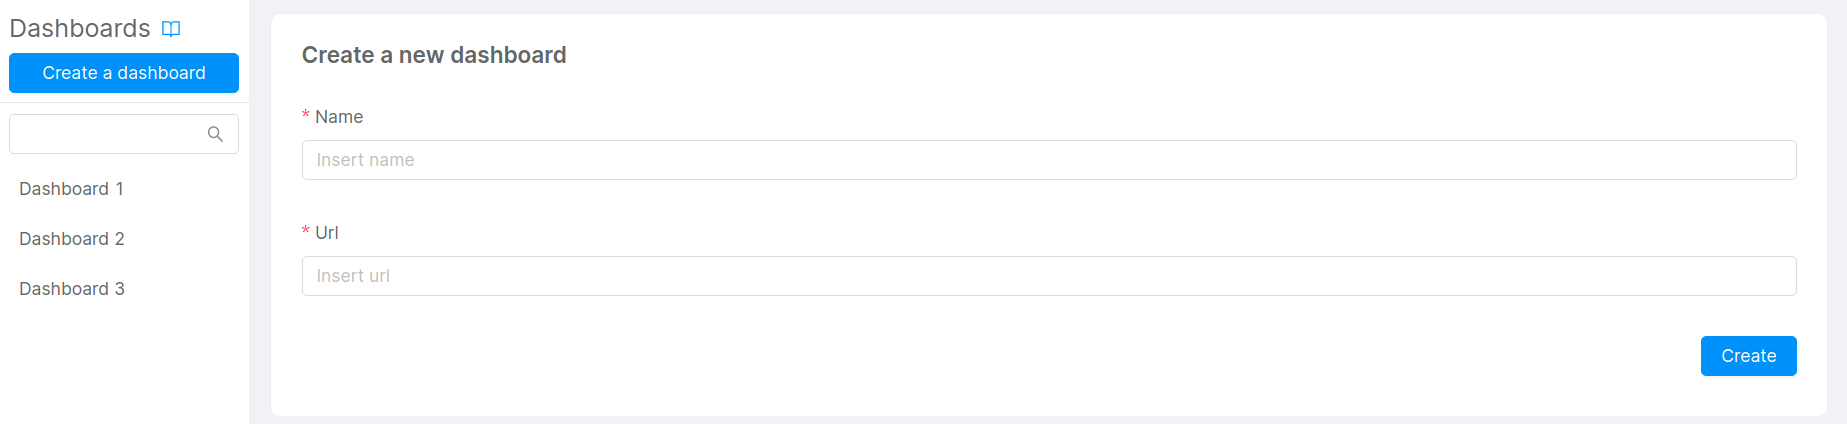
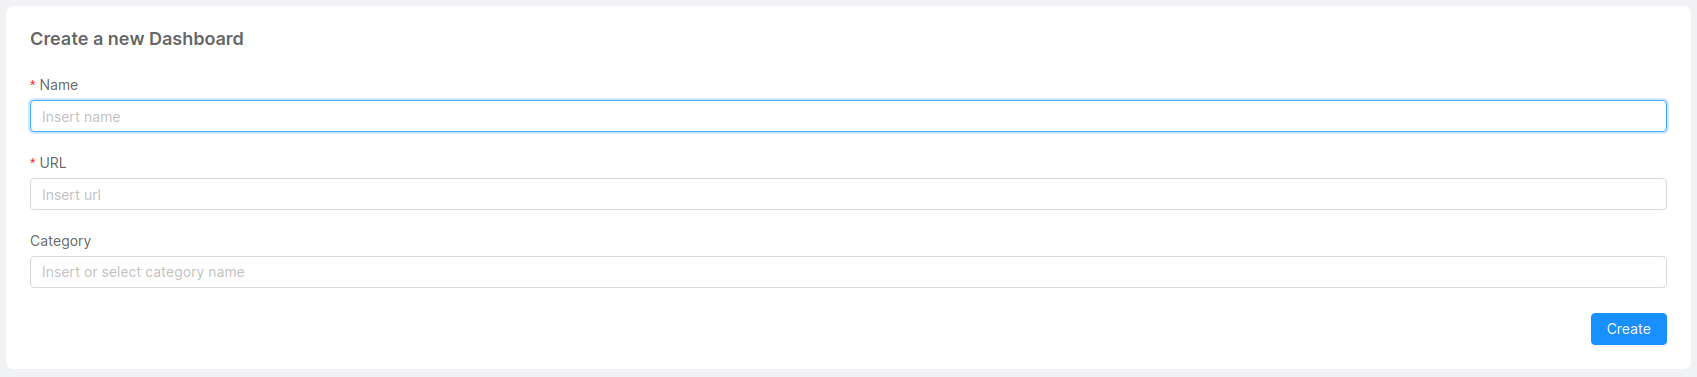
docs + screens

diff --git a/docs/development_suite/monitoring/dashboard.md b/docs/development_suite/monitoring/dashboard.md
@@ -21,7 +21,8 @@ All of the following instructions are intended for the Dashboard Area.
 In the side menu, using the 'Create a dashboard' button, it is possible to add an existing dashboard to the selected environment. To do so, the required fields are:
 
 * A `Name`, which defines the dashboard label that will be displayed in the user interface;
-* An `Url`, that will be used to render the dashboard IFrame.
+* An `Url`, that will be used to render the dashboard IFrame;
+* An optional `Category` name, used to group dashboards, if already existing the dashboard will be inserted in the specified category, otherwise a new category will be created.
 
 ![create dashboard](img/dashboards/create_dashboard.png)
 
@@ -30,7 +31,10 @@ In the side menu, using the 'Create a dashboard' button, it is possible to add a
 When a dashboard is selected, you can use the edit button (represented by a pencil icon) placed in the right side of the header to edit a dashboard in the selected environment. To do so, the required fields are:
 
 * A `label`, which defines the dashboard name that will be displayed in the user interface;
-* An `url`, that will be used to render the dashboard IFrame.
+* An `url`, that will be used to render the dashboard IFrame;
+* An optional `Category` name, used to group dashboards, if already existing the dashboard will be inserted in the specified category, otherwise a new category will be created.
+
+![edit dashboard](img/dashboards/edit_dashboard.png)
 
 ### Delete a Dashboard
 
